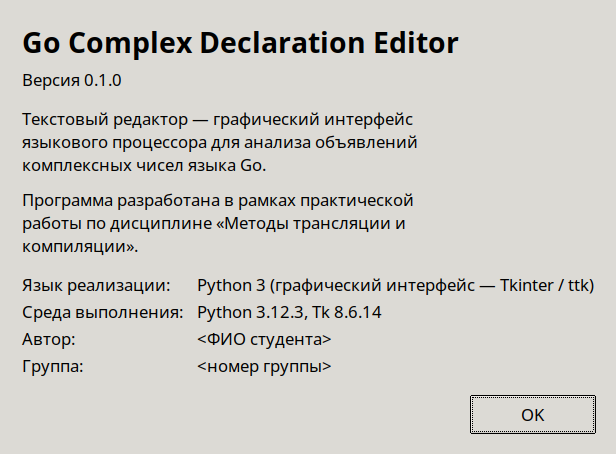
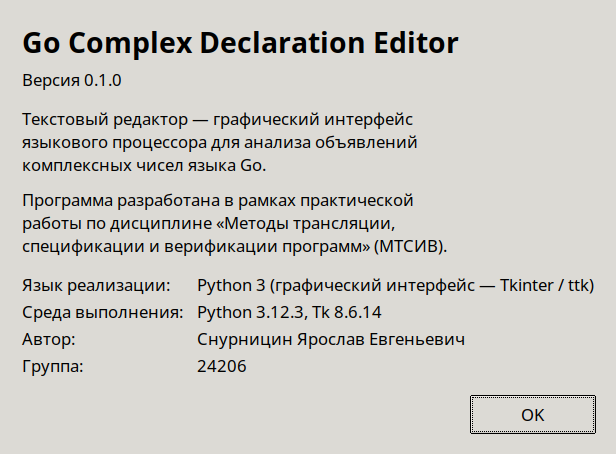
Название дисциплины: МТСИВ

Changed region(s): [[0.3084, 0.7093, 0.7711, 0.8326], [0.0308, 0.4934, 0.7403, 0.5551]]

diff --git a/tests/test_app.py b/tests/test_app.py
@@ -505,7 +505,7 @@ class InterfaceTest(AppTestCase):
         collect(about)
         joined = "\n".join(labels)
         for expected in ("Go Complex Declaration Editor", "Версия", "Python 3",
-                         "Методы трансляции и компиляции"):
+                         "Методы трансляции, спецификации и верификации программ"):
             self.assertIn(expected, joined)
         about.destroy()
 

diff --git a/README.md b/README.md
@@ -10,7 +10,7 @@ var b complex128 = 5i
 var c complex64 = -3 + 2i
 ```
 
-Практическая работа по дисциплине «Методы трансляции и компиляции».
+Практическая работа по дисциплине «Методы трансляции, спецификации и верификации программ» (МТСИВ).
 
 > **Текущий этап — только графический интерфейс.** Синтаксический анализатор
 > (команда «Пуск») и материалы меню «Текст» будут добавлены на следующих этапах.
